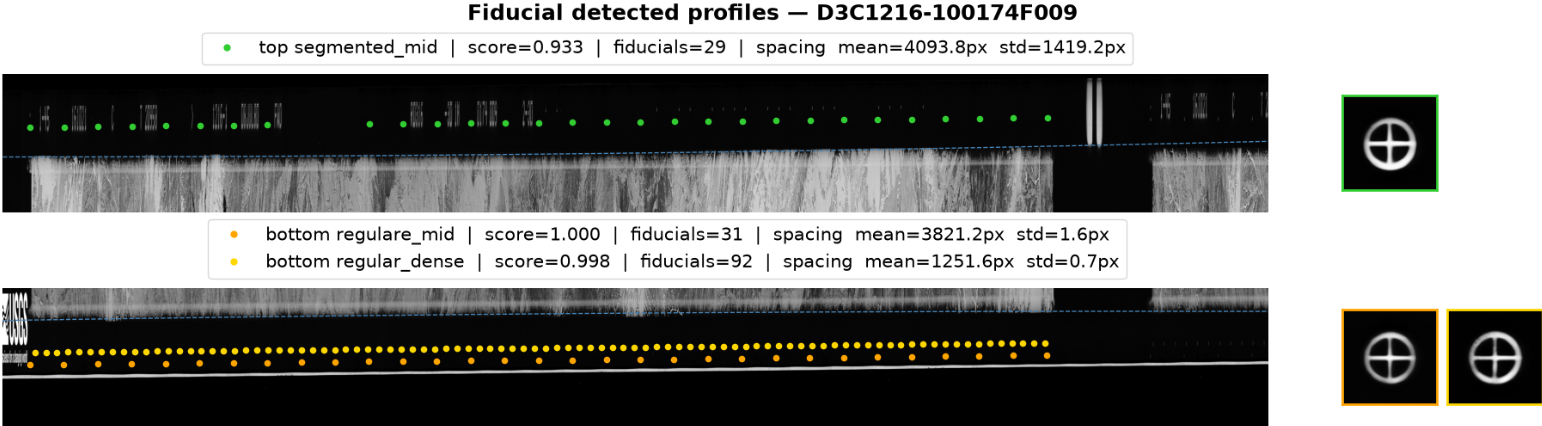
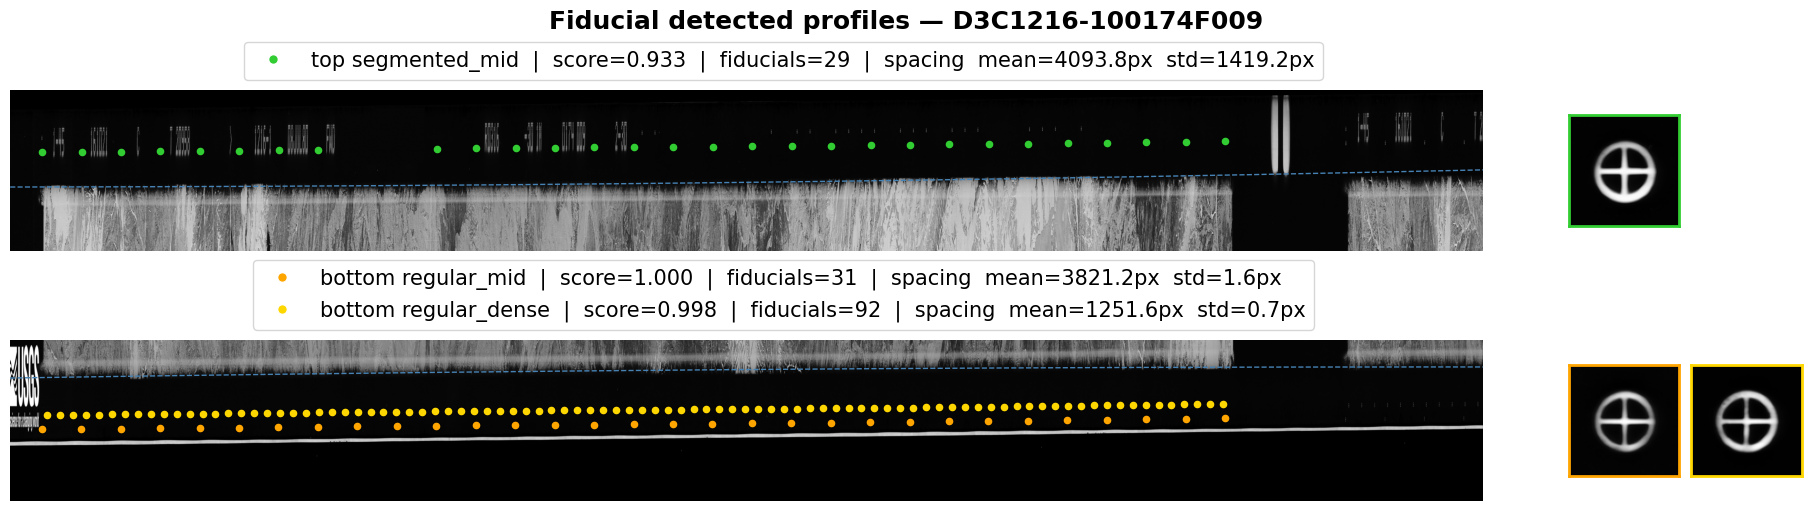
update the doc and correct fiducial name typo

diff --git a/src/hipp/kh9pc/kh9_image_spec.py b/src/hipp/kh9pc/kh9_image_spec.py
@@ -85,7 +85,7 @@ class KH9ImageSpec:
             raise ValueError("Unrecgnized mission")
         top_fiducial_patterns: tuple[Patterns, Patterns]
         if mission <= 1213:
-            top_fiducial_patterns = ("regulare_sparse", "serialized_time_word")
+            top_fiducial_patterns = ("regular_sparse", "serialized_time_word")
         elif mission <= 1217:
             top_fiducial_patterns = ("segmented_mid", "serialized_time_word")
         else:
@@ -100,9 +100,9 @@ class KH9ImageSpec:
 
         bottom_fiducial_patterns: tuple[Patterns, Patterns]
         if mission <= 1213:
-            bottom_fiducial_patterns = ("regulare_sparse", "regular_dense")
+            bottom_fiducial_patterns = ("regular_sparse", "regular_dense")
         else:
-            bottom_fiducial_patterns = ("regulare_mid", "regular_dense")
+            bottom_fiducial_patterns = ("regular_mid", "regular_dense")
 
         return bottom_fiducial_patterns
 

diff --git a/src/hipp/kh9pc/quality_control.py b/src/hipp/kh9pc/quality_control.py
@@ -217,8 +217,8 @@ def plot_collimation_distortions(detector: CollimationStrategy) -> Figure:
 
 
 _PATTERN_COLORS: dict[str, str] = {
-    "regulare_sparse": "red",
-    "regulare_mid": "orange",
+    "regular_sparse": "red",
+    "regular_mid": "orange",
     "regular_dense": "gold",
     "segmented_mid": "limegreen",
     "segmented_dense": "cyan",

diff --git a/src/hipp/kh9pc/fiducial_patterns.py b/src/hipp/kh9pc/fiducial_patterns.py
@@ -15,7 +15,7 @@ from typing import Literal
 
 
 Patterns = Literal[
-    "regulare_sparse", "regulare_mid", "regular_dense", "segmented_mid", "segmented_dense", "serialized_time_word"
+    "regular_sparse", "regular_mid", "regular_dense", "segmented_mid", "segmented_dense", "serialized_time_word"
 ]
 
 # Physical spacings derived from KH-9 Hexagon panoramic camera documentation.

diff --git a/docs/kh9pc/PREPROCESSING.md b/docs/kh9pc/PREPROCESSING.md
@@ -2,13 +2,13 @@
 
 ## Introduction
 
-This document describes the preprocessing pipeline applied to KH-9 Hexagon panoramic camera scans. Raw scans are delivered as several overlapping tif strips per image. The pipeline stitches these strips into a single mosaic, then corrects the geometric distortions introduced by the scanning process (shear, curved edges) using the film's fiducial marks, producing a single restituted image ready for photogrammetric processing (Structure from Motion).
+This document describes the preprocessing pipeline applied to KH-9 Hexagon panoramic camera scans. Raw scans are delivered as several overlapping tif tiles per image. The pipeline stitches these tiles into a single mosaic, then corrects the geometric distortions introduced by the scanning process (shear, curved edges) using the film's fiducial marks, producing a single restituted image ready for photogrammetric processing (Structure from Motion).
 
 ### Camera format
 
 ![KH9 PC camera format](img/kh9pc-camera-format.png)
 
-The physical layout of the KH-9 PC negative drives most of the constants used during restitution. At the nominal scan resolution of 0.007 mm/px (px = inches × 25.4 / 0.007):
+The physical layout of the KH-9 PC negative drives most of the constants used during restitution (see the [official NRO documentation](https://www.nro.gov/Portals/65/documents/foia/declass/ForAll/101917/F-2017-00094b.pdf), figure 5, for the reference fiducial marker layout). At the nominal scan resolution of 0.007 mm/px (px = inches × 25.4 / 0.007):
 - spacing between scan (fiducial) marks: 5.24" (19014 px) for missions 1201–1213, 1.048" (3803 px) for missions 1214–1219;
 - frame width, in four nominal lengths: 2.62 ft (114082 px), 5.24 ft (228165 px), 7.86 ft (342247 px), 10.48 ft (456329 px);
 - vertical spacing between the top and bottom fiducial rows: 6.4" (23222 px), around a 6.0" (21771 px) effective image height.
@@ -38,44 +38,16 @@ For each pair of neighboring tiles, we take an overlap window of 3000 px on the 
 - **Output:** restituted image
 - **Goal:** correct the accumulated alignment errors and shear, and crop the image to the area of interest
 
-Detect the top and bottom [fiducial marks](#21-detect-top-and-bottom-fiducial-marks) and use their positions as source points. Compute the matching destination points from the theoretical horizontal spacing between fiducials and the theoretical vertical spacing between the top and bottom rows. From these source/destination pairs, fit a Thin Plate Spline transform and apply it to the image. The crop is then centered on the transformed image, using the expected final width and height for the mission.
+Detect the top and bottom [fiducial marks](#23-detect-top-and-bottom-fiducial-marks) and use their positions as source points. Compute the matching destination points from the theoretical horizontal spacing between fiducials and the theoretical vertical spacing between the top and bottom rows. From these source/destination pairs, fit a Thin Plate Spline transform and apply it to the image. The crop is then centered on the transformed image, using the expected final width and height for the mission.
 
 ![Restituted image example](img/kh9pc-img-preprocessed.png)
 *The same image after restitution: shear corrected and cropped to the area of interest.*
 
-### 2.1 Detect top and bottom fiducial marks
+### 2.1 Detect left and right edges
 
-For each side (top and bottom), a set of overlapping horizontal blocks is scanned across the image width, from the left film margin (column 0) to the right edge found in [2.3](#23-detect-left-and-right-edges). Within each block, multi-template matching looks for the known fiducial marker shapes (disk or wagon-wheel, depending on the mission) in the strip between the block and the predicted top/bottom edge from [2.2](#22-detect-top-and-bottom-edges). Detections from all blocks are merged and de-duplicated with non-maximum suppression.
+This detector runs first and provides the horizontal bounds reused by the other restitution steps ([2.2](#22-detect-top-and-bottom-edges), [2.3](#23-detect-top-and-bottom-fiducial-marks)). For each side, a vertical band is read, cropped top and bottom by 25% of the image height to avoid the fiducial areas, and downsampled to a single-row intensity profile (1% of the window width by default) for speed. The left window spans from column 0 up to `src.width - expected_width`, i.e. the full range in which the left edge could physically sit given the mission's expected image width (from `KH9ImageSpec`), and is searched once. Once the left edge is found, the right window is opened once, a fixed width (10000 px by default) centered on the left edge position plus the expected image width, rather than scanning the whole image — this keeps the detection fast and avoids catching the wrong frame boundary. For the right side, the profile is reversed before processing so both sides are treated the same way, scanning from the film background outward into the image content.
 
-![Detected fiducial marks — disk pattern](img/kh9pc-fiducial-detected-profiles-d.png)
-*Disk fiducials detected along the top and bottom strips (missions 1201–1213), color-coded by pattern, with mean patch inset on the right.*
-
-![Detected fiducial marks — wagon-wheel pattern](img/kh9pc-fiducial-detected-profiles-ww.png)
-*Wagon-wheel fiducials detected on a mission using the other marker shape (1214–1219), also with multiple valid patterns per side.*
-
-Not every detected blob is a real fiducial mark — template matching also produces false positives on film texture and noise. To separate real detections from these, each detection is described by two features: its template matching score, and its vertical residual to the top/bottom edge model fitted in [2.2](#22-detect-top-and-bottom-edges) (genuine fiducials sit close to this line, unlike most false positives). These two features are standardized and clustered with DBSCAN, so that detections that look alike group together and inconsistent ones are left as noise.
-
-![Fiducial pattern filtering diagnostics](img/kh9pc-fiducial-filtering.png)
-*Left: detections in image space (gray = unmatched) with the fitted top/bottom edge model overlaid. Right: the same detections in feature space (matching score vs. residual to the edge), where valid patterns separate from the noise cloud.*
-
-A mission can present several fiducial patterns on the same side (e.g. sparse, mid, dense), each with its own known spacing, so the clustering is repeated over a grid search: 20 values of the DBSCAN neighborhood radius (eps) combined with 20 relative weights applied to the residual feature (from 0.5 to 5 times the matching score). For every combination, each resulting cluster is compared against every candidate pattern for that side by checking whether the spacing between consecutive points matches the pattern's known spacing, then scoring it on spacing regularity and on how much of the image width it covers. The best-scoring cluster found across the whole grid search is kept for each pattern, and the best pattern on each side is used as the source points for the restitution.
-
-### 2.2 Detect top and bottom edges
-
-For each side, a horizontal strip is extracted, spanning the left/right image bounds found in [2.3](#23-detect-left-and-right-edges). Its height is the margin between the raster height and the mission's expected effective image height (from `KH9ImageSpec`), so the strip always reaches from the film leader well into the image content regardless of mission format. This strip is downsampled onto a grid of columns, and for each column the intensity profile is scanned for the point where it first drops below a background threshold — the film leader outside the image. That threshold crossing is kept directly as the "rupture" marking the edge at that column. The scan direction is chosen so both edges are found from the image side outward: upward for the top strip, downward for the bottom strip.
-
-The rupture points collected across all sampled columns are fit with a RANSAC polynomial (degree 2 by default) per edge. RANSAC keeps the fit robust to outlier ruptures caused by scratches, dust, or other scanning artifacts. Fit quality is then checked by comparing the two fitted models against each other: the mean vertical gap between the top and bottom curves is compared to the mission's expected effective height (from `KH9ImageSpec`), and the gap's standard deviation across the width is also checked — a large relative error or a large spread flags the detection as unreliable (see [2.4](#24-failure-handling)).
-
-![Top and bottom edge RANSAC fit](img/kh9pc-poly-edges.png)
-*Detected ruptures along the top and bottom strips, with RANSAC inliers/outliers and the fitted degree-2 polynomial model.*
-
-The fitted top and bottom polynomial models are not applied on their own — they are used as the reference top/bottom edges that bound the vertical search window for the fiducial detection in [2.1](#21-detect-top-and-bottom-fiducial-marks).
-
-### 2.3 Detect left and right edges
-
-This detector runs first and provides the horizontal bounds reused by the other restitution steps ([2.1](#21-detect-top-and-bottom-fiducial-marks), [2.2](#22-detect-top-and-bottom-edges)). For each side, a vertical strip is read, cropped top and bottom by 25% of the image height to avoid the fiducial areas, and downsampled to a single-row intensity profile (1% of the window width by default) for speed. The left window spans from column 0 up to `src.width - expected_width`, i.e. the full range in which the left edge could physically sit given the mission's expected image width (from `KH9ImageSpec`), and is searched once. Once the left edge is found, the right window is opened once, a fixed width (10000 px by default) centered on the left edge position plus the expected image width, rather than scanning the whole image — this keeps the detection fast and avoids catching the wrong frame boundary. For the right side, the profile is reversed before processing so both sides are treated the same way, scanning from the film background outward into the image content.
-
-Within each profile, the longest contiguous segment sitting at the signal's minimum value is taken as the background/leader plateau (the film area outside the image, which is uniformly dark). Starting right after that plateau, the profile's gradient is scanned forward for the first rise that crosses a threshold (a fraction of the profile's peak gradient, 0.3 by default); the scan keeps climbing while the gradient keeps increasing, so it lands on the peak of the rise rather than its first crossing. That peak marks the transition from background to image content and is taken as the edge position, with the peak-to-max gradient ratio kept as a rough confidence score.
+Within each profile, the longest contiguous segment sitting at the signal's minimum value is taken as the background/leader plateau — the film leader, i.e. the blank film area outside the image frame, uniformly dark. Starting right after that plateau, the profile's gradient is scanned forward for the first rise that crosses a threshold (a fraction of the profile's peak gradient, 0.3 by default); the scan keeps climbing while the gradient keeps increasing, so it lands on the peak of the rise rather than its first crossing. That peak marks the transition from background to image content and is taken as the edge position, with the peak-to-max gradient ratio kept as a rough confidence score.
 
 If either side fails to cross the gradient threshold, detection aborts immediately.
 
@@ -85,12 +57,41 @@ If either side fails to cross the gradient threshold, detection aborts immediate
 ![Left and right intensity profiles](img/kh9pc-vertical-ruptures.png)
 *Downsampled intensity profile used to locate each edge: the background plateau (minimum, constant) followed by the gradient rise into image content, whose peak marks the edge.*
 
+### 2.2 Detect top and bottom edges
+
+For each side, a horizontal band is extracted, spanning the left/right image bounds found in [2.1](#21-detect-left-and-right-edges). Its height is the margin between the raster height and the mission's expected effective image height (from `KH9ImageSpec`), so the band always reaches from the film leader well into the image content regardless of mission format. This band is downsampled onto a grid of columns, and for each column the intensity profile is scanned for the point where it first drops below a background threshold — the film leader outside the image. That threshold crossing is kept directly as the "rupture" marking the edge at that column. The scan direction is chosen so both edges are found from the image side outward: upward for the top band, downward for the bottom band.
+
+The rupture points collected across all sampled columns are fit with a RANSAC polynomial (degree 2 by default) per edge. RANSAC keeps the fit robust to outlier ruptures caused by scratches, dust, or other scanning artifacts. Fit quality is then checked by comparing the two fitted models against each other: the mean vertical gap between the top and bottom curves is compared to the mission's expected effective height (from `KH9ImageSpec`), and the gap's standard deviation across the width is also checked — a large relative error or a large spread flags the detection as unreliable (see [2.4](#24-failure-handling)).
+
+![Top and bottom edge RANSAC fit](img/kh9pc-poly-edges.png)
+
+*Detected ruptures along the top and bottom bands, with RANSAC inliers/outliers and the fitted degree-2 polynomial model.*
+
+The fitted top and bottom polynomial models are not applied on their own — they are used as the reference top/bottom edges that bound the vertical search window for the fiducial detection in [2.3](#23-detect-top-and-bottom-fiducial-marks).
+
+### 2.3 Detect top and bottom fiducial marks
+
+For each side (top and bottom), a set of overlapping horizontal blocks is scanned across the image width, from the left film margin (column 0) to the right edge found in [2.1](#21-detect-left-and-right-edges). Within each block, multi-template matching looks for the known fiducial marker shapes (disk or wagon-wheel, depending on the mission) in the band between the block and the predicted top/bottom edge from [2.2](#22-detect-top-and-bottom-edges). Detections from all blocks are merged and de-duplicated with non-maximum suppression.
+
+![Detected fiducial marks — disk pattern](img/kh9pc-fiducial-detected-profiles-d.png)
+*Disk fiducials detected along the top and bottom bands (missions 1201–1213), color-coded by pattern, with mean patch inset on the right.*
+
+![Detected fiducial marks — wagon-wheel pattern](img/kh9pc-fiducial-detected-profiles-ww.png)
+*Wagon-wheel fiducials detected on a mission using the other marker shape (1214–1219), also with multiple valid patterns per side.*
+
+Not every detected blob is a real fiducial mark — template matching also produces false positives on film texture and noise. To separate real detections from these, each detection is described by two features: its template matching score, and its vertical residual to the top/bottom edge model fitted in [2.2](#22-detect-top-and-bottom-edges) (genuine fiducials sit close to this line, unlike most false positives). These two features are standardized and clustered with DBSCAN, so that detections that look alike are grouped together and inconsistent ones are left as noise.
+
+![Fiducial pattern filtering diagnostics](img/kh9pc-fiducial-filtering.png)
+*Left: detections in image space (gray = unmatched) with the fitted top/bottom edge model overlaid. Right: the same detections in feature space (matching score vs. residual to the edge), where valid patterns separate from the noise cloud.*
+
+A mission can present several fiducial patterns on the same side (e.g. sparse, mid, dense), each with its own known spacing, so the clustering is repeated over a grid search: 20 values of the DBSCAN neighborhood radius (eps) combined with 20 relative weights applied to the residual feature (from 0.5 to 5 times the matching score). For every combination, each resulting cluster is compared against every candidate pattern for that side by checking whether the spacing between consecutive points matches the pattern's known spacing, then scoring it on spacing regularity and on how much of the image width it covers. The best-scoring cluster found across the whole grid search is kept for each pattern, and the best pattern on each side is used as the source points for the restitution.
+
 ### 2.4 Failure handling
 
 Each detector in the restitution chain can fail independently:
 
-- **Left/right edges** ([2.3](#23-detect-left-and-right-edges)): the left edge is searched once, in a window spanning its full possible range given the mission's expected width. The right edge is then searched once, in a window centered on the left edge plus the expected width. Neither side is retried — if either fails, fitting aborts immediately with an exception — every other detector depends on these bounds.
-- **Top/bottom edges** ([2.2](#22-detect-top-and-bottom-edges)): a side with no rupture points at all aborts fitting. Otherwise, the fitted top/bottom models are only flagged as unreliable if the mean gap between them strays too far from the mission's expected effective height or is too inconsistent across the width; the fitted models are still used to bound the fiducial search windows in [2.1](#21-detect-top-and-bottom-fiducial-marks), since the fiducial marks — not the edges — are the actual source of truth for restitution.
-- **Fiducial marks** ([2.1](#21-detect-top-and-bottom-fiducial-marks)): a side with zero template-matching detections aborts fitting. Otherwise, a side only counts as usable once its primary pattern (the one with a known physical spacing) reaches a minimum matching score. If just one side falls short, its control points are synthesized from the other side using the known vertical spacing between fiducial rows, and restitution proceeds. Only if **both** sides fall short is the image marked as failed, in which case computing the TPS transform raises an error.
+- **Left/right edges** ([2.1](#21-detect-left-and-right-edges)): the left edge is searched once, in a window spanning its full possible range given the mission's expected width. The right edge is then searched once, in a window centered on the left edge plus the expected width. Neither side is retried — if either fails, fitting aborts immediately with an exception — every other detector depends on these bounds.
+- **Top/bottom edges** ([2.2](#22-detect-top-and-bottom-edges)): a side with no rupture points at all aborts fitting. Otherwise, the fitted top/bottom models are only flagged as unreliable if the mean gap between them strays too far from the mission's expected effective height or is too inconsistent across the width; the fitted models are still used to bound the fiducial search windows in [2.3](#23-detect-top-and-bottom-fiducial-marks), since the fiducial marks — not the edges — are the actual source of truth for restitution.
+- **Fiducial marks** ([2.3](#23-detect-top-and-bottom-fiducial-marks)): a side with zero template-matching detections aborts fitting. Otherwise, a side only counts as usable once its primary pattern (the one with a known physical spacing) reaches a minimum matching score. If just one side falls short, its control points are synthesized from the other side using the known vertical spacing between fiducial rows, and restitution proceeds. Only if **both** sides fall short is the image marked as failed, in which case computing the TPS transform raises an error.
 
 An aborted or failed image raises an exception instead of producing a partial output. `preprocess_kh9pc` does not catch it: for a single image the error propagates to the caller, while `batch_preprocess_kh9pc` catches it per image so the rest of the batch keeps running. The mosaic and the fitted strategy (`work/joined_images/`, `work/joblibs/`) are kept on failure so the image can be retried without redoing the mosaicking step. QC figures under `qc/restitution/` are written as soon as fiducial detection succeeds — even if the image later fails at the transform step — making them the first place to check when diagnosing a failure.